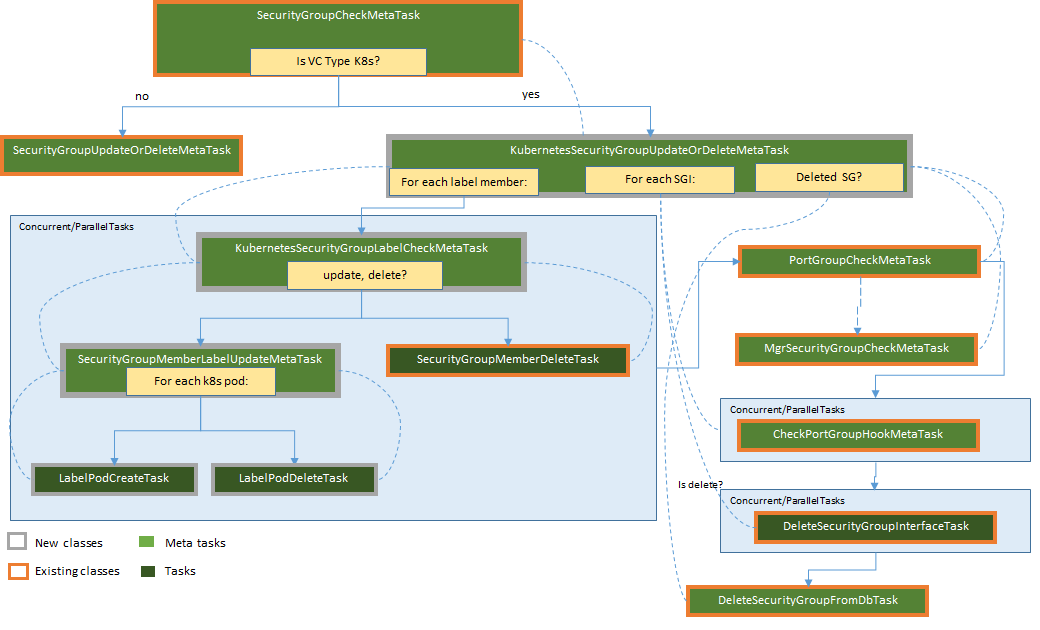
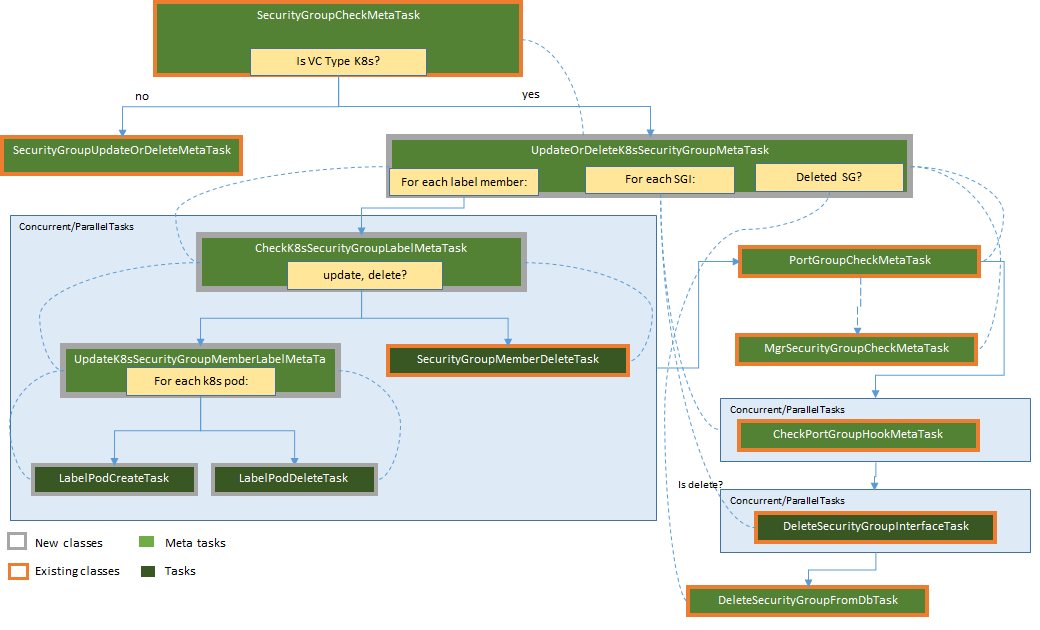
Updating the task names to use k8s

Changed region(s): [[0.4923, 0.2111, 0.7692, 0.2714], [0.0615, 0.5429, 0.3077, 0.6032], [0.2154, 0.3619, 0.4615, 0.4222]]

diff --git a/designs/containers/workload-discovery/workload-discovery.md b/designs/containers/workload-discovery/workload-discovery.md
@@ -343,10 +343,10 @@ The diagram below depicts the tasks and metatasks involved on this change:
 ![](./images/discovery-tasks.png)  
 *Tasks and Metatasks for Synchronizing Security Group Members*
 * **SecurityGroupCheckMetaTask**: This metatask will continue mostly as is, but for SGs of Virtualization Connectors of type Kubernetes it will add to the graph `KubernetesSecurityGroupUpdateOrDeleteMetaTask` instead of the existing `SecurityGroupUpdateOrDeleteMetatask`.  
-* **KubernetesSecurityGroupUpdateOrDeleteMetaTask:** The main purpose of this task is to trigger the task `KubernetesSecurityGroupLabelCheckMetTask` for each label security group member. Similarly to the existing `SecurityGroupUpdateOrDeleteMetatask` this task will also add the existing task `PortGroupCheckMetaTask` if the SDN controller supports port group.  
-* **KubernetesSecurityGroupLabelCheckMetaTask:** This metatask forks the graph in two possible options for a given label security member: update or deletion, adding to the graph either `SecurityGroupMemberLabelUpdateMetaTask` or 
+* **UpdateOrDeleteK8ssSecurityGroupMetaTask:** The main purpose of this task is to trigger the task `KubernetesSecurityGroupLabelCheckMetTask` for each label security group member. Similarly to the existing `SecurityGroupUpdateOrDeleteMetatask` this task will also add the existing task `PortGroupCheckMetaTask` if the SDN controller supports port group.  
+* **CheckK8sSecurityGroupLabelMetaTask:** This metatask forks the graph in two possible options for a given label security member: update or deletion, adding to the graph either `SecurityGroupMemberLabelUpdateMetaTask` or 
 * **SecurityGropuMemberDeleteTask**: This existing task is currently responsible for deleting security members, entities (VM, network, etc) and ports when applicable. It will remain mostly the same but also handling the member type `Label`.  
-* **SecurityGroupMemberLabelUpdateMetaTask:** The main purpose of this task is to list the K8s pods using the `KubernetesPodApi` and checking if a new pod needs to be created or an existing one must be deleted.  Observe that pod updates are not expected, any changes on the pod: name, namespace, node, network info should represent a new pod (K8s does not currently support pod migration). Once binding is developed this metatask will also include tasks to synchronize information with the SDN controller.  `
+* **UpdateK8sSecurityGroupMemberLabelMetaTask:** The main purpose of this task is to list the K8s pods using the `KubernetesPodApi` and checking if a new pod needs to be created or an existing one must be deleted.  Observe that pod updates are not expected, any changes on the pod: name, namespace, node, network info should represent a new pod (K8s does not currently support pod migration). Once binding is developed this metatask will also include tasks to synchronize information with the SDN controller.  `
 * **LabelPodCreateTask:** This task is responsible for retrieving additional network information from the SDN controller related to the targeted pod and it will persit the pod with that information (i.e. pod port) on the OSC database.  `
 * **LabelPodDeleteTask:** This task is responsible for purging pod and pod network information from the OSC db.  `
 

diff --git a/designs/containers/traffic-redirection/traffic-redirection.md b/designs/containers/traffic-redirection/traffic-redirection.md
@@ -38,7 +38,7 @@ Not applicable.
 Out of scope.
 
 ### OSC Synchronization Tasks
-Most of the changes needed for this feature will include expanding the already planned class `KubernetesSecurityGroupUpdateOrDeleteMetaTask` to include additional existing tasks and metatasks in its graph. See below the pictures comparing the graphs planned for synchronization of security group and members and now the graphs planned for syncrhonization of the binding/unbiding of a SG.  
+Most of the changes needed for this feature will include expanding the already planned class `UpdateK8sSecurityGroupUpdateOrDeleteMetaTask` to include additional existing tasks and metatasks in its graph. See below the pictures comparing the graphs planned for synchronization of security group and members and now the graphs planned for syncrhonization of the binding/unbiding of a SG.  
 
 ![](../workload-discovery/images/discovery-tasks.png)
 *Tasks and Metatasks for Synchronizing Security Group Members*  
@@ -48,7 +48,7 @@ Most of the changes needed for this feature will include expanding the already p
 ![](./images/redirection-tasks.png)
 *Tasks and Metatasks for Synchronizing Security Group Bindings/Interfaces*
 
-#### KubernetesSecurityGroupUpdateOrDeleteMetaTask  
+#### UpdateK8sSecurityGroupOrDeleteMetaTask  
 In addition to conform the security group members and pods, this meta task will also now trigger other existing tasks and metatasks to synchronize the port groups and port group hooks with the SDN controller using the tasks `PortGroupCheckMetaTask` and `CheckPortGroupHookMetaTask`; security group members with the manager using the `MgrSecurityGroupCheckMetaTask`; and deleting  the security group interfaces using the `DeleteSecurityGroupInterfaceTask` when applicable.  
 
 #### CheckPortGroupHookMetaTask  
